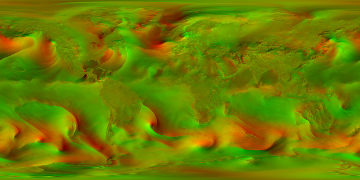
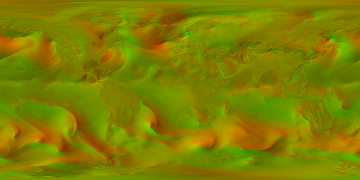
improve encoding, add tests

diff --git a/data/prepare.js b/data/prepare.js
@@ -1,14 +1,18 @@
-// Fetches recent 10 m wind from the NCEP GFS 1° model and writes a PNG + JSON metadata
-// pair per frame for WindGL.setWind(). Data comes from Unidata's THREDDS server over
-// OPeNDAP's ASCII output, which is plain text — no GRIB tooling needed.
+// Fetches recent 10 m wind from the NCEP GFS 1° model and writes one PNG per frame for
+// WindGL.setWind(). Data comes from Unidata's THREDDS server over OPeNDAP's ASCII
+// output, which is plain text — no GRIB tooling needed.
 //
 //     node data/prepare.js [outDir] [frames]
 //
-// Frames are 6 hours apart, ending at the most recent one available.
+// Frames are 6 hours apart, ending at the most recent one available. Each PNG is a
+// 360x180 equirectangular grid, lat 90°→-90° down the rows, lon centred on 0°E, u in
+// red and v in green per src/encode.js.
 
 import {PNG} from 'pngjs';
 import fs from 'node:fs';
 import path from 'node:path';
+
+import {WIND_RANGE, encodeWind, clampWind} from '../src/encode.js';
 
 const DATASET = 'https://thredds.ucar.edu/thredds/dodsC/grib/NCEP/GFS/Global_onedeg/Best';
 const width = 360;
@@ -47,28 +51,30 @@ async function writeFrame(date) {
         const body = await get(`ascii?${encodeURIComponent(`${name}[${index}][0][0:180][0:359]`)}`);
         // the coordinate axes are repeated after the grid, and each row is prefixed
         // with its `[t][z][y], ` index — integers, which `numbers` skips
-        const values = numbers(body.slice(0, body.indexOf(`${name}.time`)));
-        // 65k values is too many to spread into Math.min
-        let min = Infinity, max = -Infinity;
-        for (const value of values) {
-            min = Math.min(min, value);
-            max = Math.max(max, value);
-        }
-        return {values, min, max};
+        return numbers(body.slice(0, body.indexOf(`${name}.time`)));
     }));
 
     const png = new PNG({colorType: 2, filterType: 4, width, height});
+    let maxComponent = 0;
 
     for (let y = 0; y < height; y++) {
         for (let x = 0; x < width; x++) {
             const i = (y * width + x) * 4;
             // roll by half a turn: GFS starts at 0°E, the texture is centred on it
             const k = y * width + (x + width / 2) % width;
-            png.data[i + 0] = Math.floor(255 * (u.values[k] - u.min) / (u.max - u.min));
-            png.data[i + 1] = Math.floor(255 * (v.values[k] - v.min) / (v.max - v.min));
+            maxComponent = Math.max(maxComponent, Math.abs(u[k]), Math.abs(v[k]));
+            const [uc, vc] = clampWind(u[k], v[k]);
+            png.data[i + 0] = encodeWind(uc);
+            png.data[i + 1] = encodeWind(vc);
             png.data[i + 2] = 0;
             png.data[i + 3] = 255;
         }
+    }
+
+    // saturation changes movement, not just colour, so fail rather than flatten silently
+    if (maxComponent > WIND_RANGE) {
+        throw new Error(`largest component ${maxComponent.toFixed(1)} m/s exceeds WIND_RANGE ` +
+            `${WIND_RANGE}; raise it to at least ${Math.ceil(maxComponent)} in src/encode.js`);
     }
 
     const hour = date.toISOString().slice(0, 13);
@@ -76,17 +82,7 @@ async function writeFrame(date) {
     const file = path.join(outDir, name);
 
     fs.writeFileSync(`${file}.png`, PNG.sync.write(png));
-    fs.writeFileSync(`${file}.json`, `${JSON.stringify({
-        source: DATASET,
-        date: `${hour}:00Z`,
-        width,
-        height,
-        uMin: u.min,
-        uMax: u.max,
-        vMin: v.min,
-        vMax: v.max
-    }, null, 2)}\n`);
 
-    console.log(`wrote ${file}.png`);
+    console.log(`wrote ${file}.png (max component ${maxComponent.toFixed(1)} m/s)`);
     return name;
 }

diff --git a/src/index.js b/src/index.js
@@ -1,5 +1,6 @@
 import * as util from './util.js';
 import {drawVert, drawFrag, quadVert, screenFrag, updateFrag} from './shaders.js';
+import {WIND_RANGE, windStep} from './encode.js';
 
 const defaultRampColors = {
     0.0: '#3288bd',
@@ -13,8 +14,11 @@ const defaultRampColors = {
 };
 
 export default class WindGL {
-    constructor(gl) {
+    // `windRange` is the ±m/s range the wind images were encoded against; constructor-only
+    // so a later change can't reinterpret an already loaded image
+    constructor(gl, {windRange = WIND_RANGE} = {}) {
         this.gl = gl;
+        this.windStep = windStep(windRange);
 
         // needed to render into the RGBA32F particle state textures
         if (!gl.getExtension('EXT_color_buffer_float')) {
@@ -68,8 +72,7 @@ export default class WindGL {
         }
         gl.deleteTexture(this.particleStateTexture0);
         gl.deleteTexture(this.particleStateTexture1);
-        // particle state for the current and the next frame; the next one is only ever
-        // rendered into, so it just needs storage
+        // current and next frame; the next one is only rendered into, so it needs no data
         this.particleStateTexture0 = util.createTexture(gl, gl.RGBA32F, particleState, particleRes, particleRes);
         this.particleStateTexture1 = util.createTexture(gl, gl.RGBA32F, null, particleRes, particleRes);
     }
@@ -77,12 +80,15 @@ export default class WindGL {
         return this._numParticles;
     }
 
-    setWind(windData) {
+    // `image` is an equirectangular u/v grid encoded per src/encode.js. Decode it with
+    // `createImageBitmap(blob, {colorSpaceConversion: 'none', premultiplyAlpha: 'none'})`:
+    // browser defaults are entitled to rewrite the channels.
+    setWind(image) {
         const gl = this.gl;
-        this.windData = windData;
+        this.windRes = [image.width, image.height];
         gl.deleteTexture(this.windTexture);
         // wraps in S to interpolate across the date line
-        this.windTexture = util.createTexture(gl, gl.RGBA8, windData.image, windData.width, windData.height, gl.REPEAT);
+        this.windTexture = util.createTexture(gl, gl.RGBA8, image, image.width, image.height, gl.REPEAT);
     }
 
     // releases every GL resource; the instance is unusable afterwards
@@ -175,16 +181,15 @@ export default class WindGL {
         gl.uniform1i(program.u_particles, 1);
 
         gl.uniform1f(program.u_rand_seed, Math.random());
-        gl.uniform2f(program.u_wind_res, this.windData.width, this.windData.height);
-        gl.uniform2f(program.u_wind_min, this.windData.uMin, this.windData.vMin);
-        gl.uniform2f(program.u_wind_max, this.windData.uMax, this.windData.vMax);
+        gl.uniform2f(program.u_wind_res, this.windRes[0], this.windRes[1]);
+        gl.uniform1f(program.u_wind_step, this.windStep);
         gl.uniform1f(program.u_speed_factor, this.speedFactor);
         gl.uniform1f(program.u_drop_rate, this.dropRate);
         gl.uniform1f(program.u_drop_rate_bump, this.dropRateBump);
 
         gl.drawArrays(gl.TRIANGLE_STRIP, 0, 4);
 
-        // swap the particle state textures so the new one becomes the current one
+        // the texture just rendered into becomes the current state
         const temp = this.particleStateTexture0;
         this.particleStateTexture0 = this.particleStateTexture1;
         this.particleStateTexture1 = temp;

diff --git a/src/shaders.js b/src/shaders.js
@@ -82,8 +82,7 @@ precision highp float;
 
 uniform sampler2D u_wind;
 uniform vec2 u_wind_res;
-uniform vec2 u_wind_min;
-uniform vec2 u_wind_max;
+uniform float u_wind_step;
 
 uniform sampler2D u_particles;
 uniform float u_rand_seed;
@@ -102,8 +101,8 @@ float rand(const vec2 co) {
     return fract(sin(t) * (rand_constants.z + t));
 }
 
-// bilinear blend of the 4 surrounding texels, done in highp because hardware
-// filtering uses low-precision weights on many GPUs, which stair-steps the trails
+// manual bilinear blend: hardware filtering uses low-precision weights on many GPUs,
+// which stair-steps the trails
 vec2 lookup_wind(const vec2 uv) {
     vec2 px = 1.0 / u_wind_res;
     vec2 t = uv * u_wind_res - 0.5;
@@ -119,9 +118,10 @@ vec2 lookup_wind(const vec2 uv) {
 void main() {
     vec2 pos = texture(u_particles, v_tex_pos).rg;
 
-    vec2 velocity = mix(u_wind_min, u_wind_max, lookup_wind(pos));
-    // 0..1 fraction of the grid's maximum, for coloring
-    float speed_t = length(velocity) / length(u_wind_max);
+    // affine, so decoding after the blend is exact — see src/encode.js
+    vec2 velocity = (lookup_wind(pos) * 255.0 - 128.0) * u_wind_step;
+    // 0..1 fraction of the encodable range, for coloring
+    float speed_t = length(velocity) / (u_wind_step * 127.0);
 
     // take EPSG:4326 distortion into account for calculating where the particle moved
     float distortion = cos(radians(pos.y * 180.0 - 90.0));
@@ -130,10 +130,9 @@ void main() {
     // update particle position, wrapping around the date line
     pos = fract(1.0 + pos + offset);
 
-    // a random seed to use for the particle drop
     vec2 seed = (pos + v_tex_pos) * u_rand_seed;
 
-    // drop rate is a chance a particle will restart at random position, to avoid degeneration
+    // chance of restarting at a random position, so the field can't degenerate
     float drop_rate = u_drop_rate + speed_t * u_drop_rate_bump;
     float drop = step(1.0 - drop_rate, rand(seed));
 
@@ -143,9 +142,9 @@ void main() {
 
     pos = mix(pos, random_pos, drop);
 
-    // half floats resolve the offset to a small fraction of a pixel. Zeroing it on a drop
-    // gives that particle no segment; keeping it un-wrapped runs a date line crossing off
-    // the edge rather than back across the screen.
+    // half floats resolve the offset to a fraction of a pixel. Zeroed on a drop, so that
+    // particle draws no segment; un-wrapped, so a date line crossing runs off the edge
+    // rather than back across the screen.
     float packed_offset = uintBitsToFloat(packHalf2x16(offset * (1.0 - drop)));
 
     fragColor = vec4(pos, packed_offset, speed_t);

diff --git a/test/encode.test.js b/test/encode.test.js
@@ -1,0 +1,57 @@
+import test from 'node:test';
+import assert from 'node:assert/strict';
+
+import {WIND_RANGE, windStep, encodeWind, decodeWind, clampWind} from '../src/encode.js';
+
+test('zero is exactly representable', () => {
+    assert.equal(encodeWind(0), 128);
+    assert.equal(decodeWind(128), 0);
+});
+
+test('endpoints land on codes 1 and 255', () => {
+    assert.equal(encodeWind(WIND_RANGE), 255);
+    assert.equal(encodeWind(-WIND_RANGE), 1);
+    assert.equal(decodeWind(255), WIND_RANGE);
+    assert.equal(decodeWind(1), -WIND_RANGE);
+});
+
+test('codes stay in 1..255 across the range', () => {
+    for (let value = -WIND_RANGE; value <= WIND_RANGE; value += 0.01) {
+        const code = encodeWind(value);
+        assert.ok(code >= 1 && code <= 255, `${value} -> ${code}`);
+        assert.equal(code, Math.round(code));
+    }
+});
+
+test('round trip is within half a step', () => {
+    const half = windStep() / 2;
+    for (let value = -WIND_RANGE; value <= WIND_RANGE; value += 0.017) {
+        assert.ok(Math.abs(decodeWind(encodeWind(value)) - value) <= half + 1e-12);
+    }
+});
+
+test('decode commutes with bilinear interpolation', () => {
+    const [a, b] = [encodeWind(-7.5), encodeWind(21.25)];
+    for (const t of [0, 0.25, 1 / 3, 0.5, 0.75, 1]) {
+        const mix = (x, y) => x + (y - x) * t;
+        assert.ok(Math.abs(decodeWind(mix(a, b)) - mix(decodeWind(a), decodeWind(b))) < 1e-12);
+    }
+});
+
+test('clamp preserves direction and fits the largest component', () => {
+    const [u, v] = clampWind(50, 20);
+    assert.ok(Math.max(Math.abs(u), Math.abs(v)) <= WIND_RANGE + 1e-12);
+    assert.ok(Math.abs(Math.atan2(20, 50) - Math.atan2(v, u)) < 1e-12);
+});
+
+test('clamp leaves representable vectors untouched, including the corners', () => {
+    for (const [u, v] of [[0, 0], [31.9, -12], [WIND_RANGE, -WIND_RANGE]]) {
+        assert.deepEqual(clampWind(u, v), [u, v]);
+    }
+});
+
+test('a custom range rescales both directions consistently', () => {
+    assert.equal(encodeWind(40, 40), 255);
+    assert.equal(decodeWind(128, 40), 0);
+    assert.equal(windStep(40), 40 / 127);
+});

diff --git a/demo/index.js b/demo/index.js
@@ -29,7 +29,7 @@ const wind = window.wind = new WindGL(gl);
 wind.numParticles = 65536;
 
 function frame() {
-    if (wind.windData) {
+    if (wind.windTexture) {
         wind.draw();
     }
     requestAnimationFrame(frame);
@@ -48,13 +48,11 @@ gui.add(meta, 'github.com/mapbox/webgl-wind');
 
 updateWind(0);
 
-// read afresh each time — it changes when the window moves between displays or the
-// page is zoomed
+// read afresh each time: it changes with the display and with page zoom
 const pixelRatio = () => (meta['retina resolution'] ? window.devicePixelRatio : 1);
 
-// both canvases are 100vw/100vh, so one observer covers them; it also fires once on
-// setup, which is what does the initial sizing. Setting canvas.width doesn't affect
-// the CSS box, so this can't loop.
+// both canvases are 100vw/100vh, so one observer covers them; its initial fire does the
+// initial sizing. Setting canvas.width doesn't affect the CSS box, so this can't loop.
 new ResizeObserver(resize).observe(canvas);
 
 function resize() {
@@ -69,12 +67,9 @@ function resize() {
 }
 
 async function updateWind(hours) {
-    const name = windFiles[hours / 6];
-    const [windData, image] = await Promise.all([
-        fetch(`wind/${name}.json`).then(res => res.json()),
-        fetch(`wind/${name}.png`).then(res => res.blob()).then(createImageBitmap)
-    ]);
-    wind.setWind({...windData, image});
+    const blob = await fetch(`wind/${windFiles[hours / 6]}.png`).then(res => res.blob());
+    // the PNG holds numbers, not colours: no conversion may touch the channels
+    wind.setWind(await createImageBitmap(blob, {colorSpaceConversion: 'none', premultiplyAlpha: 'none'}));
 }
 
 fetch('https://d2ad6b4ur7yvpq.cloudfront.net/naturalearth-3.3.0/ne_110m_coastline.geojson')

diff --git a/src/util.js b/src/util.js
@@ -36,9 +36,8 @@ export function createProgram(gl, vertexSource, fragmentSource) {
 }
 
 // `data` may be a typed array, an image or bitmap, or null to allocate storage only.
-// Filtering is always NEAREST: shaders that want interpolation do it themselves, and it
-// isn't guaranteed for 32-bit float textures anyway. Only S can wrap — a wrapping T
-// would blend the poles into each other.
+// Filtering is always NEAREST: shaders interpolate themselves, and it isn't guaranteed
+// for float textures anyway. Only S can wrap — a wrapping T would blend the poles.
 export function createTexture(gl, format, data, width, height, wrapS = gl.CLAMP_TO_EDGE) {
     const texture = gl.createTexture();
     gl.bindTexture(gl.TEXTURE_2D, texture);
@@ -49,6 +48,8 @@ export function createTexture(gl, format, data, width, height, wrapS = gl.CLAMP_
 
     gl.texStorage2D(gl.TEXTURE_2D, 1, format, width, height);
     if (data) {
+        // the default, BROWSER_DEFAULT_WEBGL, may rewrite the channels on upload
+        gl.pixelStorei(gl.UNPACK_COLORSPACE_CONVERSION_WEBGL, gl.NONE);
         gl.texSubImage2D(gl.TEXTURE_2D, 0, 0, 0, width, height, gl.RGBA,
             format === gl.RGBA32F ? gl.FLOAT : gl.UNSIGNED_BYTE, data);
     }

diff --git a/src/encode.js b/src/encode.js
@@ -1,0 +1,20 @@
+// The encoding is a contract between data/prepare.js and the decode line in the update
+// shader, with no per-file metadata to reconcile them, so both sides come from here.
+// Codes run 1..255 with zero exactly on 128; the mapping is affine, so it commutes with
+// bilinear interpolation and the shader can blend codes and decode afterwards.
+
+export const WIND_RANGE = 32; // m/s — the largest representable single component
+
+// m/s per code; the shader gets this as u_wind_step
+export const windStep = (range = WIND_RANGE) => range / 127;
+
+export const encodeWind = (value, range = WIND_RANGE) => Math.round(128 + value / windStep(range));
+
+export const decodeWind = (code, range = WIND_RANGE) => (code - 128) * windStep(range);
+
+// Scales the vector until its largest component fits, preserving direction exactly —
+// clamping the components independently would rotate the wind.
+export function clampWind(u, v, range = WIND_RANGE) {
+    const m = Math.max(Math.abs(u), Math.abs(v));
+    return m > range ? [u * range / m, v * range / m] : [u, v];
+}
